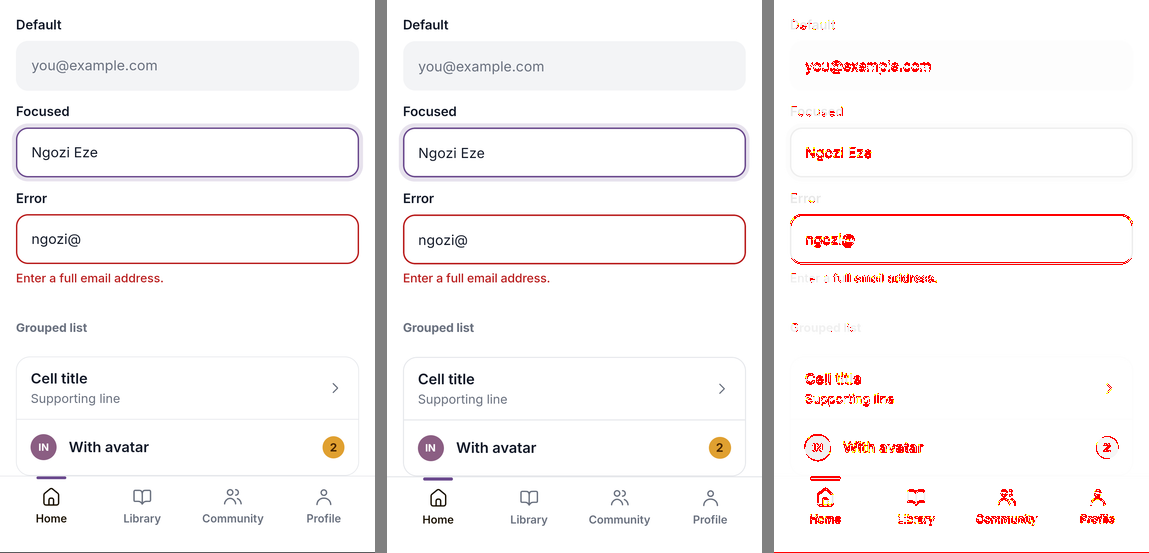
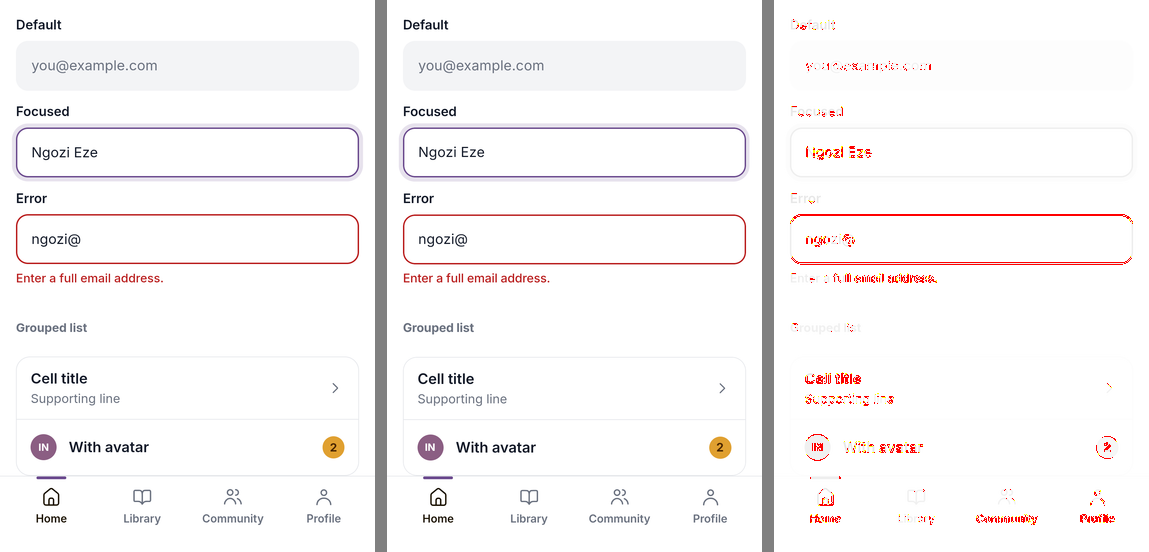
fix(00): kit parity passes on the phone: kit-a 1.56-1.73%, kit-b 1.78% (4 themes)
- TextInput baseline: Chrome centres a line-height box with floored half-leading,
  Android centres whole-px ascent+descent; androidInputShift moves the text by the
  difference (Field), font padding off.
- parity.mjs: the reference reports its exact height and the crop floors it, so the
  last row is the screen, not the page background behind it (Math.ceil overshot).
- snapBorder unit test.

diff --git a/packages/ui/src/components/forms.tsx b/packages/ui/src/components/forms.tsx
@@ -10,7 +10,7 @@ import { fontFamily } from '../fonts';
 import { Icon, type IconName } from '../Icon';
 import { ease } from '../motion';
 import { Press } from '../Pressable';
-import { Text, androidFontSize } from '../Text';
+import { Text, androidFontSize, androidInputShift } from '../Text';
 import { useTheme } from '../theme';
 import { motion, rgba } from '../tokens';
 
@@ -55,6 +55,7 @@ export function Field({
   }));
   const halo = useAnimatedStyle(() => ({ opacity: f.value }));
   const fs = s(14);
+  const inputShift = androidInputShift(fs, fs * 1.45, fontFamily('ui', 400));
   return (
     <View style={{ gap: s(6) }}>
       {label ? (
@@ -111,9 +112,10 @@ export function Field({
               flex: 1,
               minWidth: 0,
               // `padding: 12px 0`; Android's TextInput adds its own side padding otherwise
-              paddingVertical: s(12),
+              // (.device line-height 1.45 inherited through font:inherit); Chrome's baseline via inputShift
+              paddingTop: s(12) + inputShift,
+              paddingBottom: s(12) - inputShift,
               paddingHorizontal: 0,
-              // Chrome centres the font's ascent+descent; Android's extra font padding put the text ~1px low
               includeFontPadding: false,
               fontFamily: fontFamily('ui', 400),
               ...androidFontSize(fs, fontFamily('ui', 400)),

diff --git a/packages/ui/src/Text.tsx b/packages/ui/src/Text.tsx
@@ -155,6 +155,30 @@ export function androidFontSize(
   return { fontSize: (px - 0.01) / r, letterSpacing: (fontSize - px / r) * m[2] };
 }
 
+/**
+ * Vertical shift (dp, + = down) that puts a single-line TextInput's baseline where Chrome draws an
+ * input's. Chrome centres a `lineHeight` line box (whole-px ascent/descent, half-leading floored, as
+ * in lineBox); Android centres the font's whole-px ascent + descent (includeFontPadding off).
+ * Apply as paddingTop + shift / paddingBottom − shift.
+ */
+export function androidInputShift(fontSize: number, lineHeight: number, family: string): number {
+  const m = fontMetrics[family];
+  if (Platform.OS !== 'android' || !m) return 0;
+  const r = PixelRatio.get() * PixelRatio.getFontScale();
+  const px = Math.max(1, Math.round(fontSize * r));
+  const android = (Math.ceil(px * m[0]) - Math.ceil(px * m[1])) / 2;
+  const d = fontSize * r * m[1];
+  let ab = Math.round(fontSize * r * m[0]);
+  let db = Math.round(d);
+  if (db < d && ab >= 1) {
+    db++;
+    ab--;
+  }
+  const lh = lineHeight * r;
+  const chrome = ab + Math.floor((lh - ab - db) / 2) - lh / 2;
+  return (chrome - android) / PixelRatio.get();
+}
+
 /** The size RN's fit search ends at from `start` px when the text fits (float32, like the Kotlin). */
 function fitResult(start: number, min: number): number {
   let size = start;

diff --git a/packages/ui/src/scale.test.ts b/packages/ui/src/scale.test.ts
@@ -1,5 +1,5 @@
 import { describe, expect, it } from 'vitest';
-import { MIN_SCALE, scaleFor, scaled } from './scale';
+import { MIN_SCALE, scaleFor, scaled, snapBorder } from './scale';
 
 describe('scaleFor', () => {
   it('is 1 at the design width and above', () => {
@@ -28,5 +28,14 @@ describe('scaled', () => {
     expect(scaled(48, 0.85)).toBe(40.8);
     expect(scaled(15, 0.96)).toBe(14.4);
     expect(scaled(999, 0.85)).toBe(999);
+  });
+});
+
+describe('snapBorder', () => {
+  it('floors to whole device pixels, at least one, like Chrome', () => {
+    expect(snapBorder(1, 2.88125) * 2.88125).toBeCloseTo(2);
+    expect(snapBorder(1.5, 2.88125) * 2.88125).toBeCloseTo(4);
+    expect(snapBorder(0.2, 2)).toBe(0.5);
+    expect(snapBorder(0, 3)).toBe(0);
   });
 });
